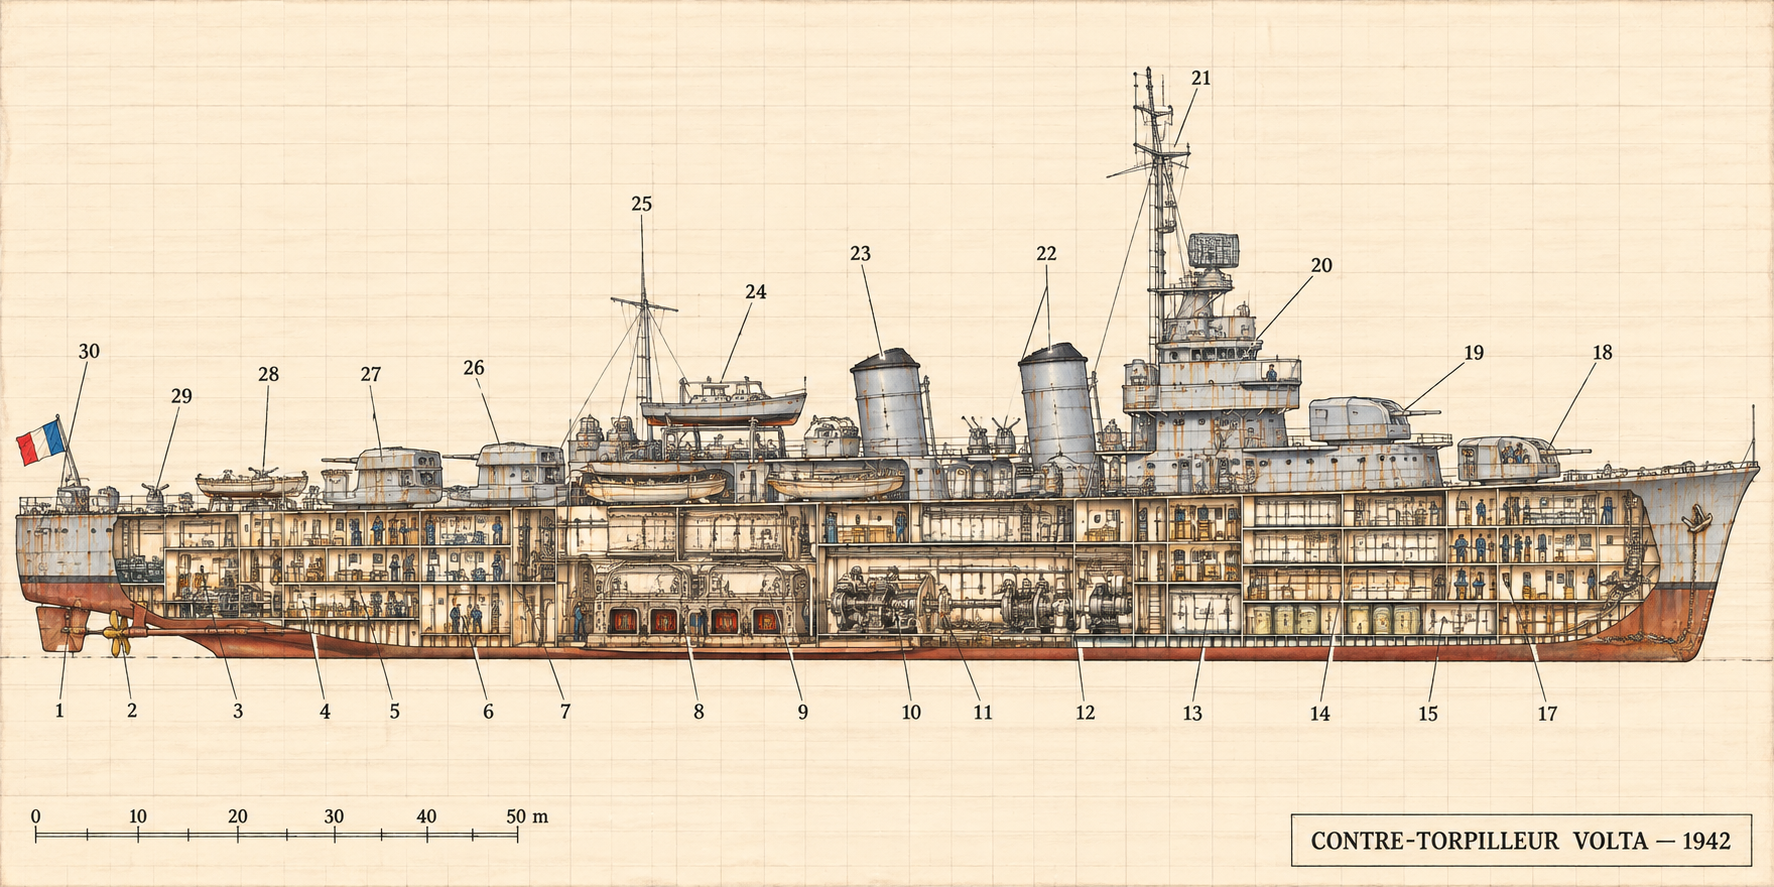
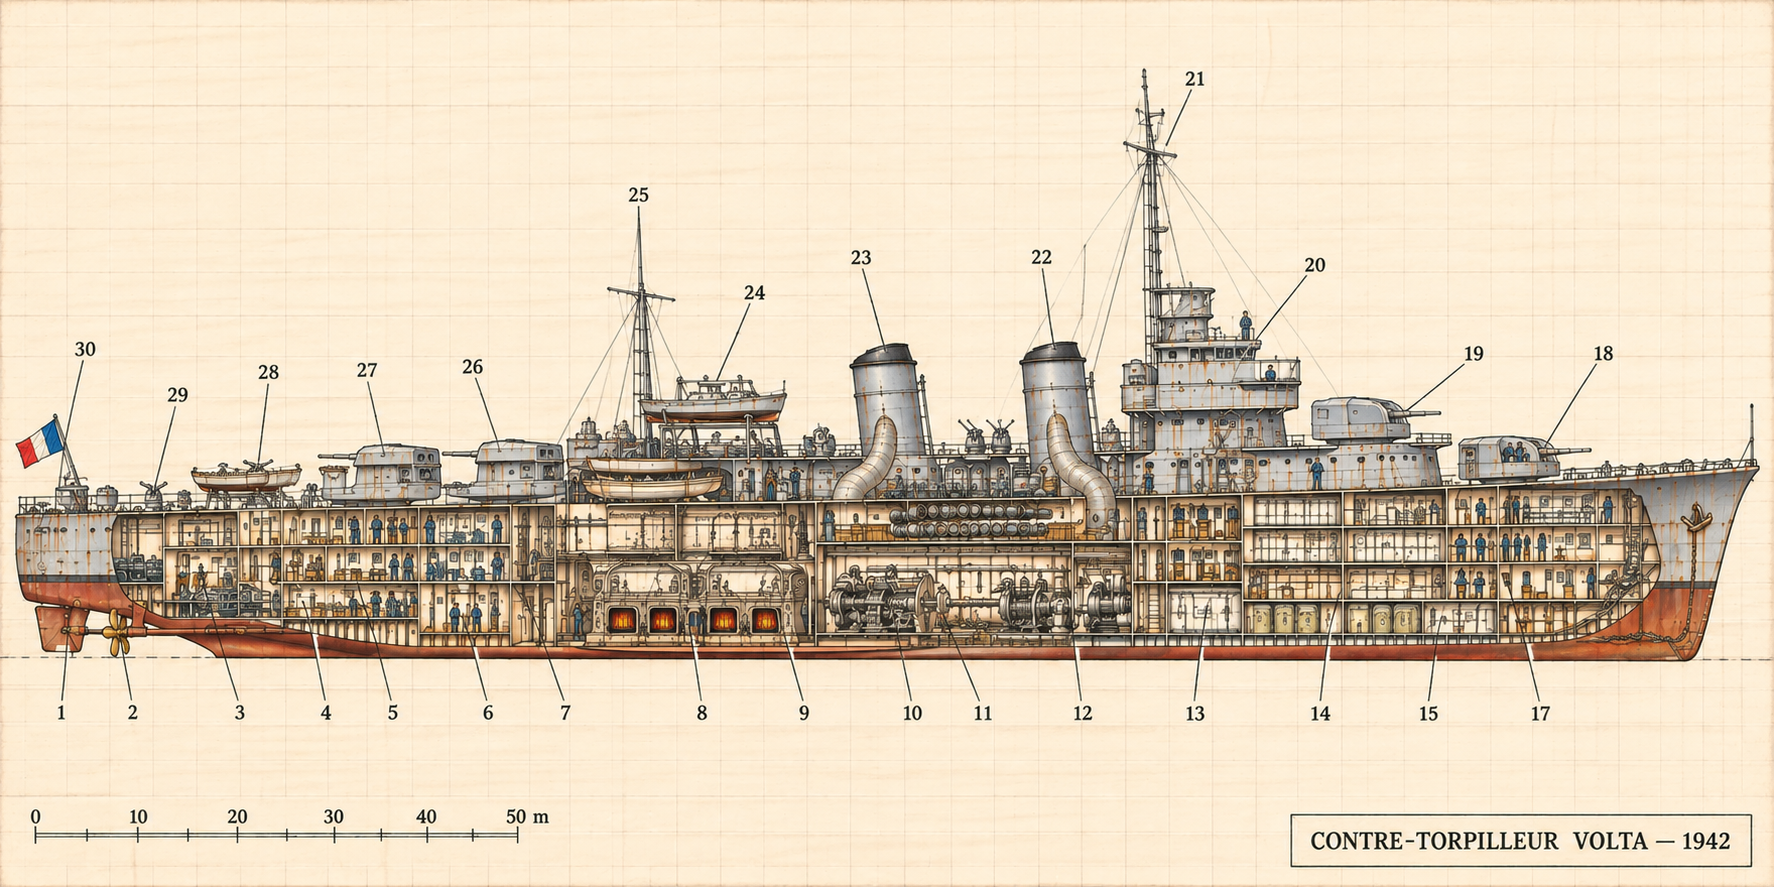
Illustration : nouvelle version du plan de coupe du Volta (sans radar, tubes lance-torpilles), écarts mis à jour

diff --git a/36-expedition-de-la-manche.md b/36-expedition-de-la-manche.md
@@ -67,9 +67,8 @@ Depuis juillet 1940, les équipages français vivent sans nouvelles. **L'appel d
 | | | | | 30 | Pavillon national |
 
 **Écarts de l'image au canon et à l'histoire** :
-- **Une antenne radar** en haut du mât de misaine (21) : la Marine française n'en a pas en 1940, et l'îlot n'en fabrique pas. À ignorer.
-- **Les tubes lance-torpilles** (deux affûts triples et deux doubles sur l'axe) **manquent** [histoire].
-- **Les chaufferies et les cheminées ne sont pas alignées** : dans le navire réel, les conduits de fumée montent des chaudières aux cheminées ; l'image place les turbines sous les cheminées 🔎.
+- **Les tubes lance-torpilles** : l'image montre une rangée de tubes entre les cheminées, mais sous le pont. Dans le navire réel, deux affûts triples et deux doubles sont **sur le pont**, dans l'axe [histoire].
+- **Les chaufferies et les cheminées ne sont pas alignées** : dans le navire réel, les conduits de fumée montent des chaudières aux cheminées. Ici, les conduits coudés plongent vers les salles des machines (10-11), et les chaudières (8-9) restent sous l'arrière 🔎.
 - **Le n° 16 manque** dans la numérotation.
 - **Les embarcations supplémentaires** et la peinture rouillée sont voulues : ce sont les traces de deux ans sans carénage et les préparatifs de l'expédition.
 
